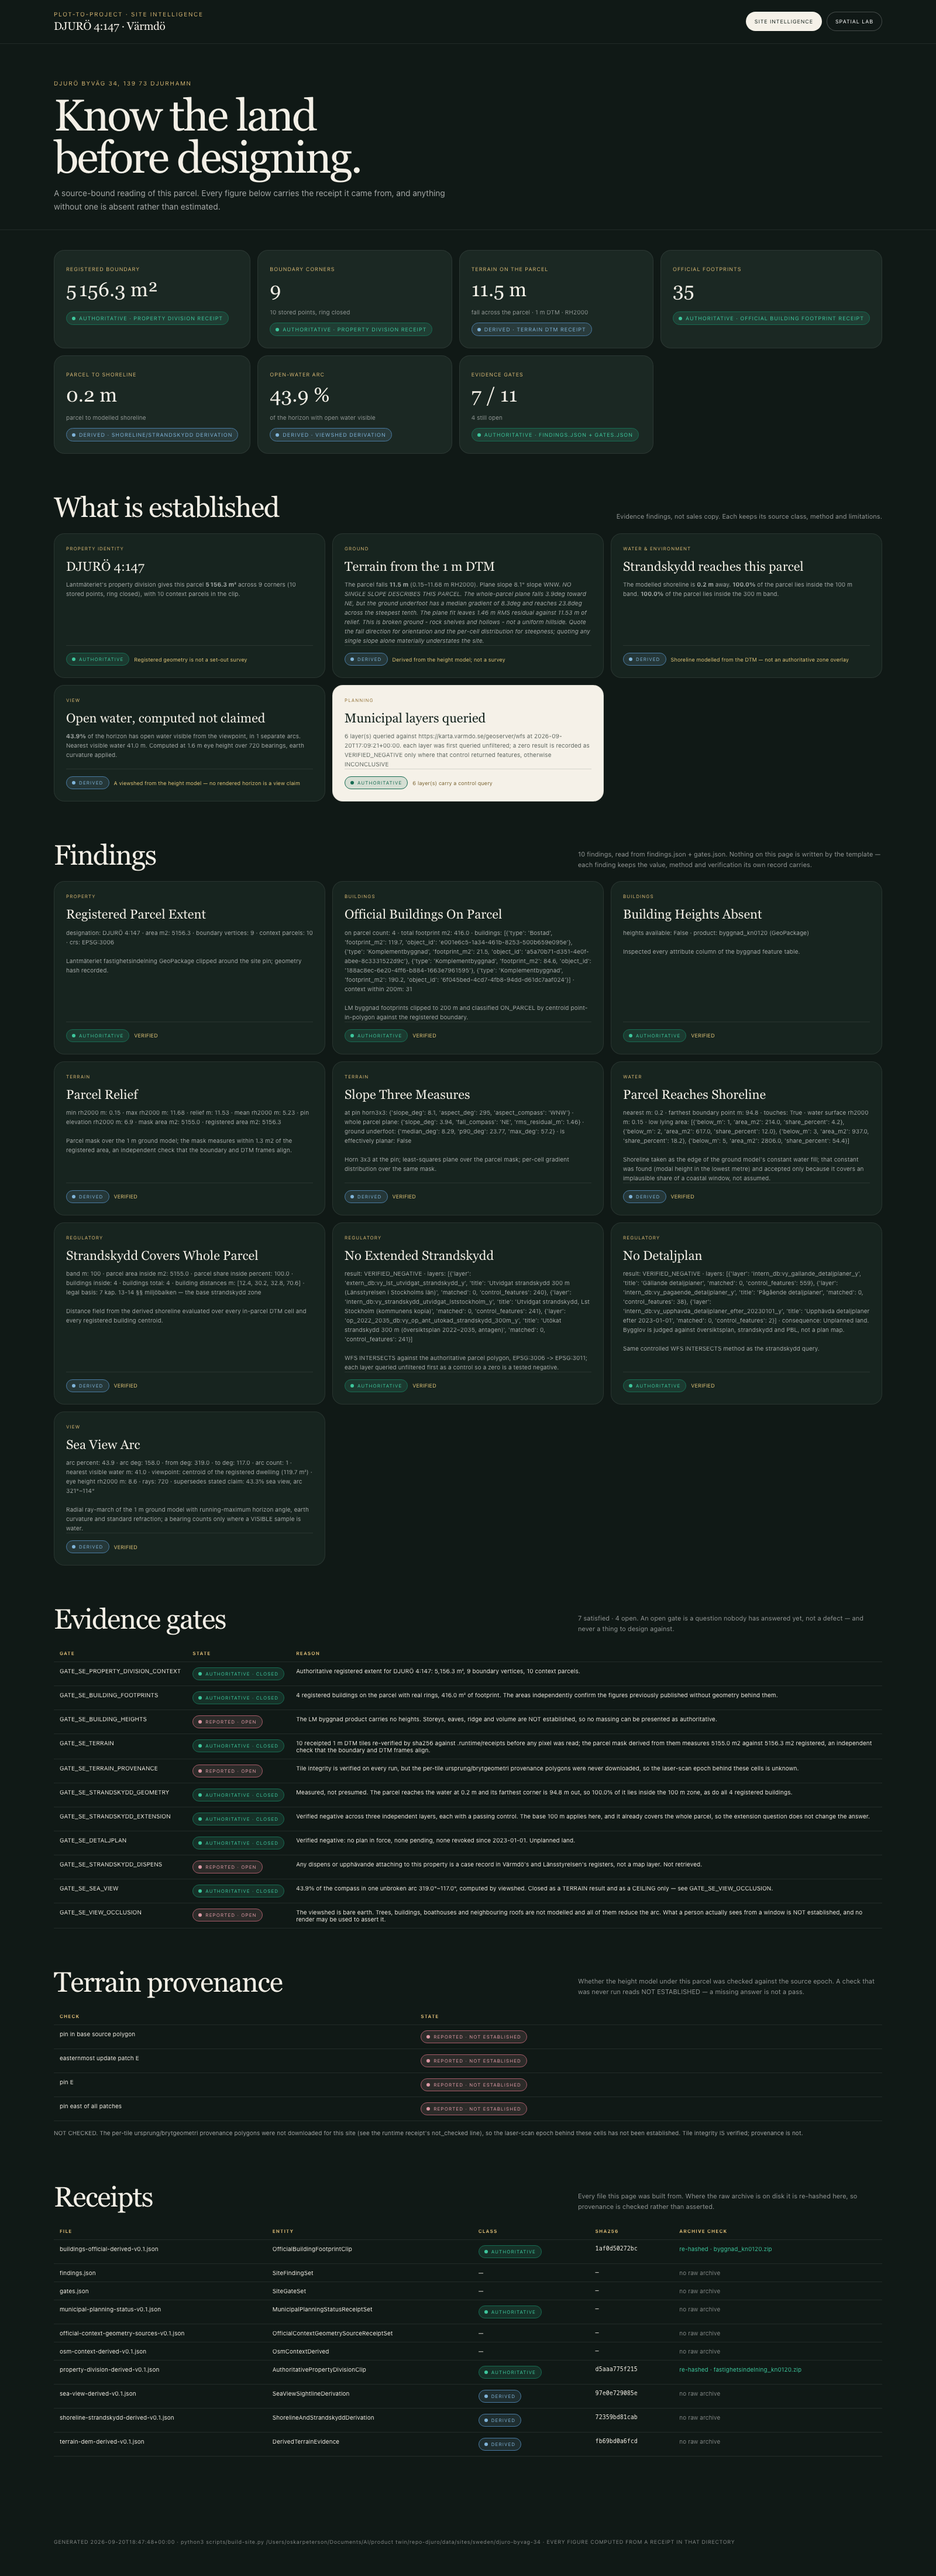
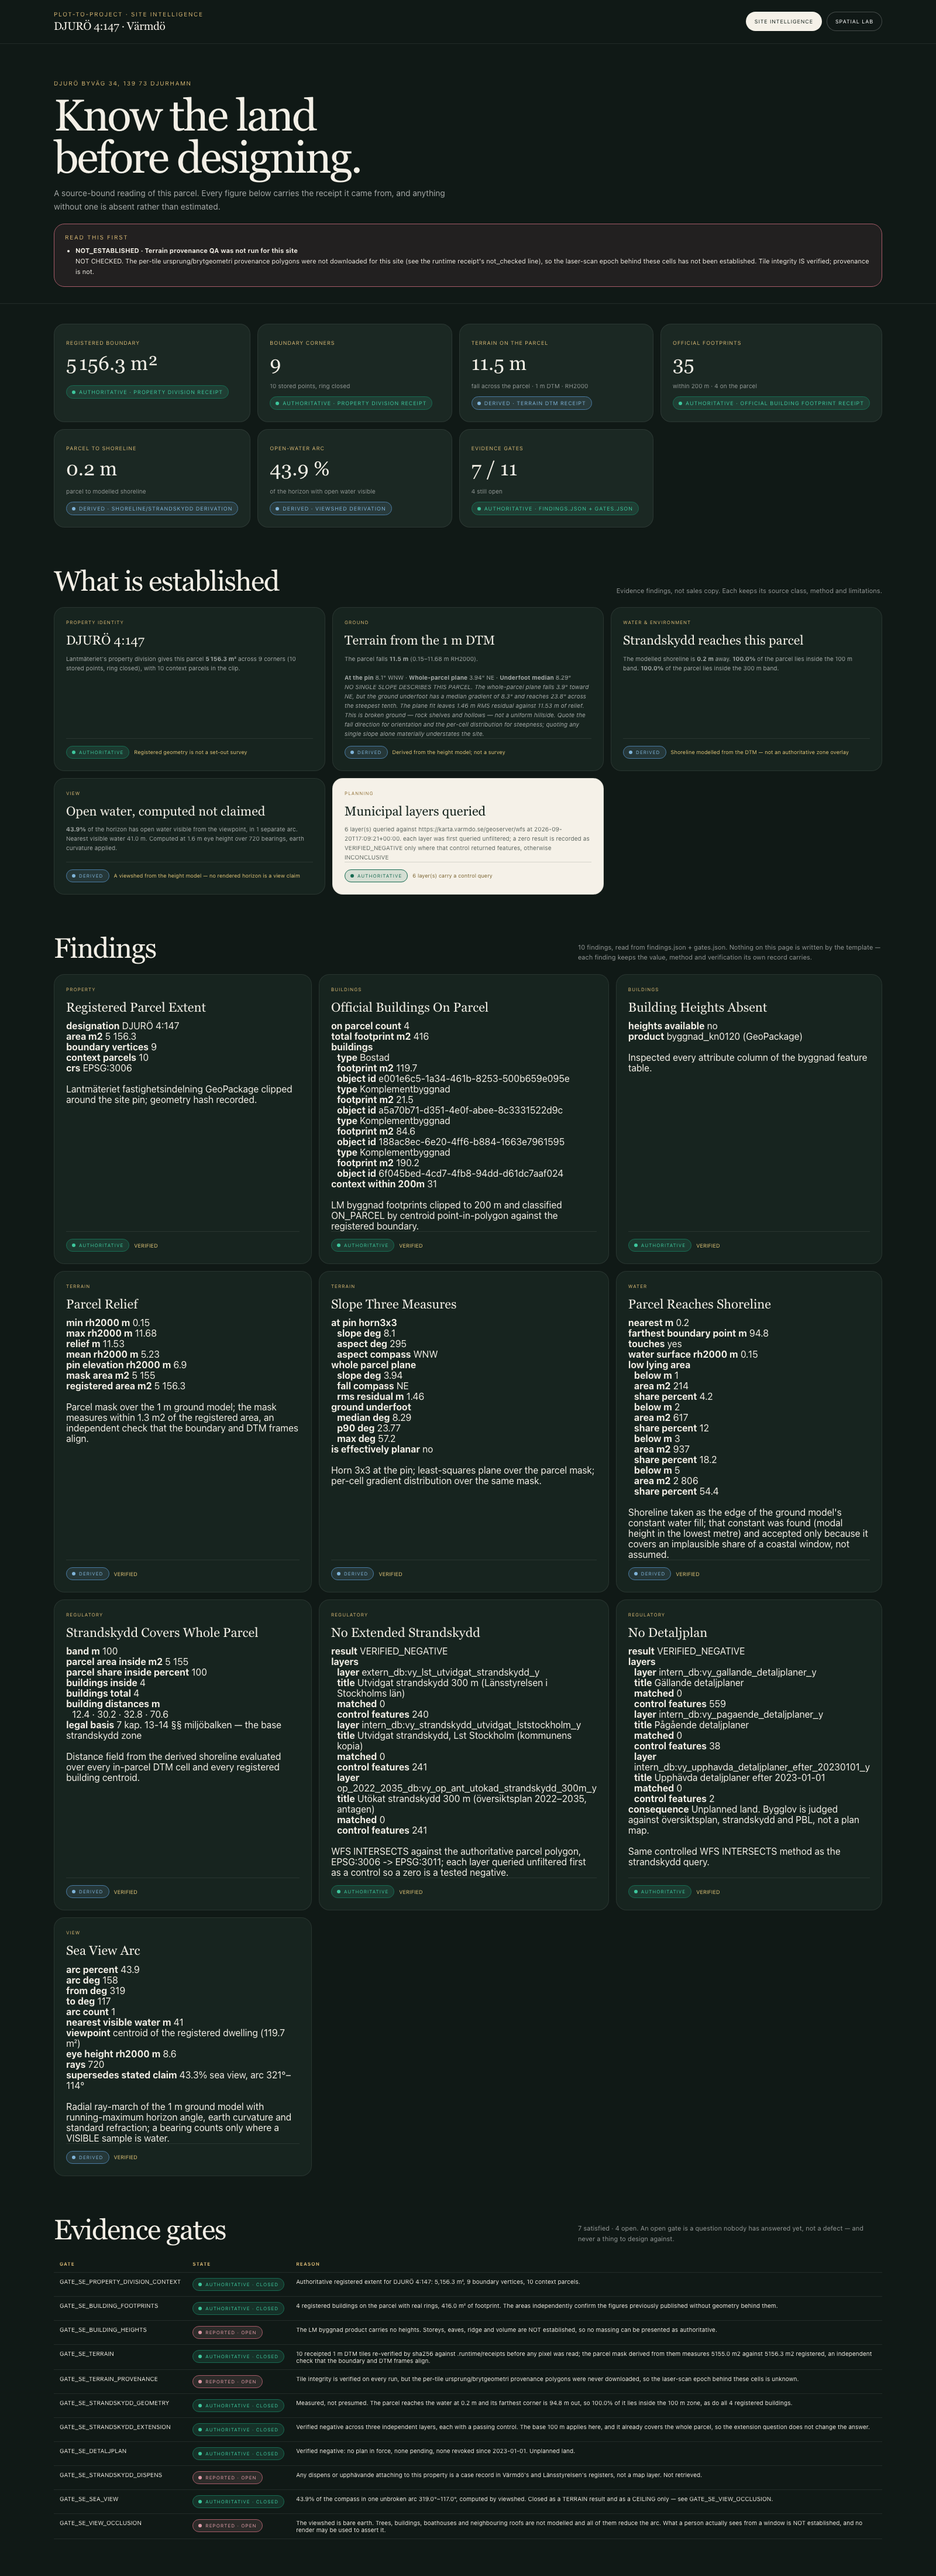
brain: recapture both build-site pages after Spatial's template fixes; recipe: strays + fresh profile per run

diff --git a/docs/CAPTURE-RECIPE.md b/docs/CAPTURE-RECIPE.md
@@ -2,6 +2,10 @@
 
 Headless Chrome DOES write the PNG; it then hangs on exit. Wait for the file, then kill it.
 
+RULES: (1) `pgrep -fl headless=new` FIRST — strays fight over the profile singleton and write about:blank;
+kill them (`pkill -f headless=new`) before capturing. (2) A FRESH --user-data-dir per run (mktemp -d).
+(3) Kill the PID you started, always, even on success.
+
     CH="/Applications/Google Chrome.app/Contents/MacOS/Google Chrome"
     "$CH" --headless=new --disable-gpu --hide-scrollbars --no-first-run \
       --user-data-dir=/tmp/chrome-profile-$$ --window-size=1600,4400 --virtual-time-budget=10000 \
